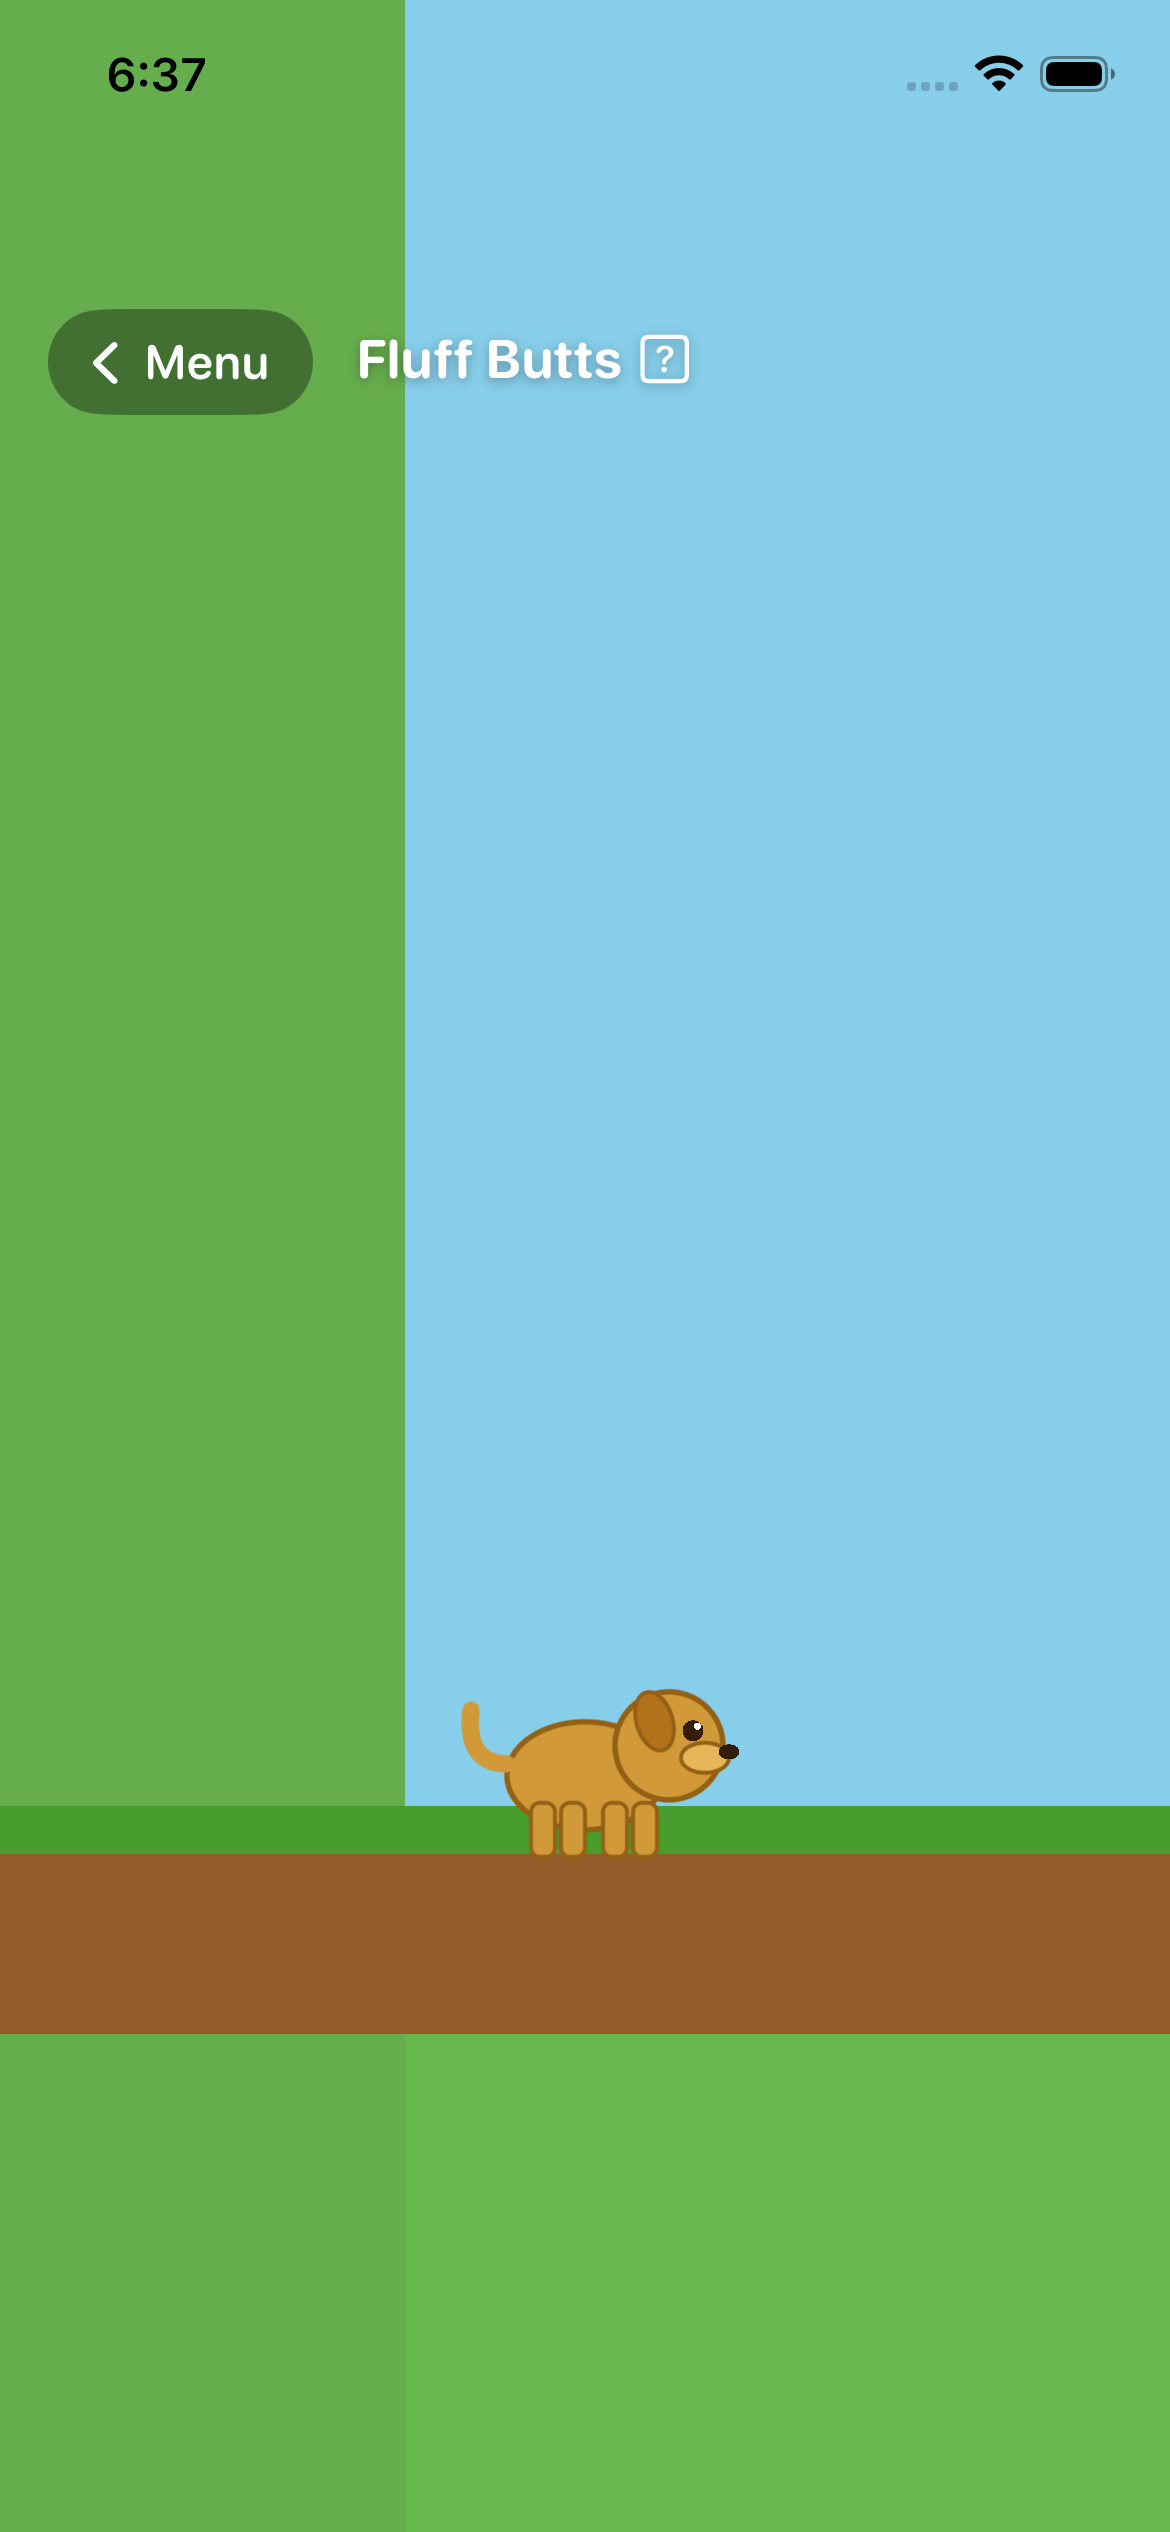
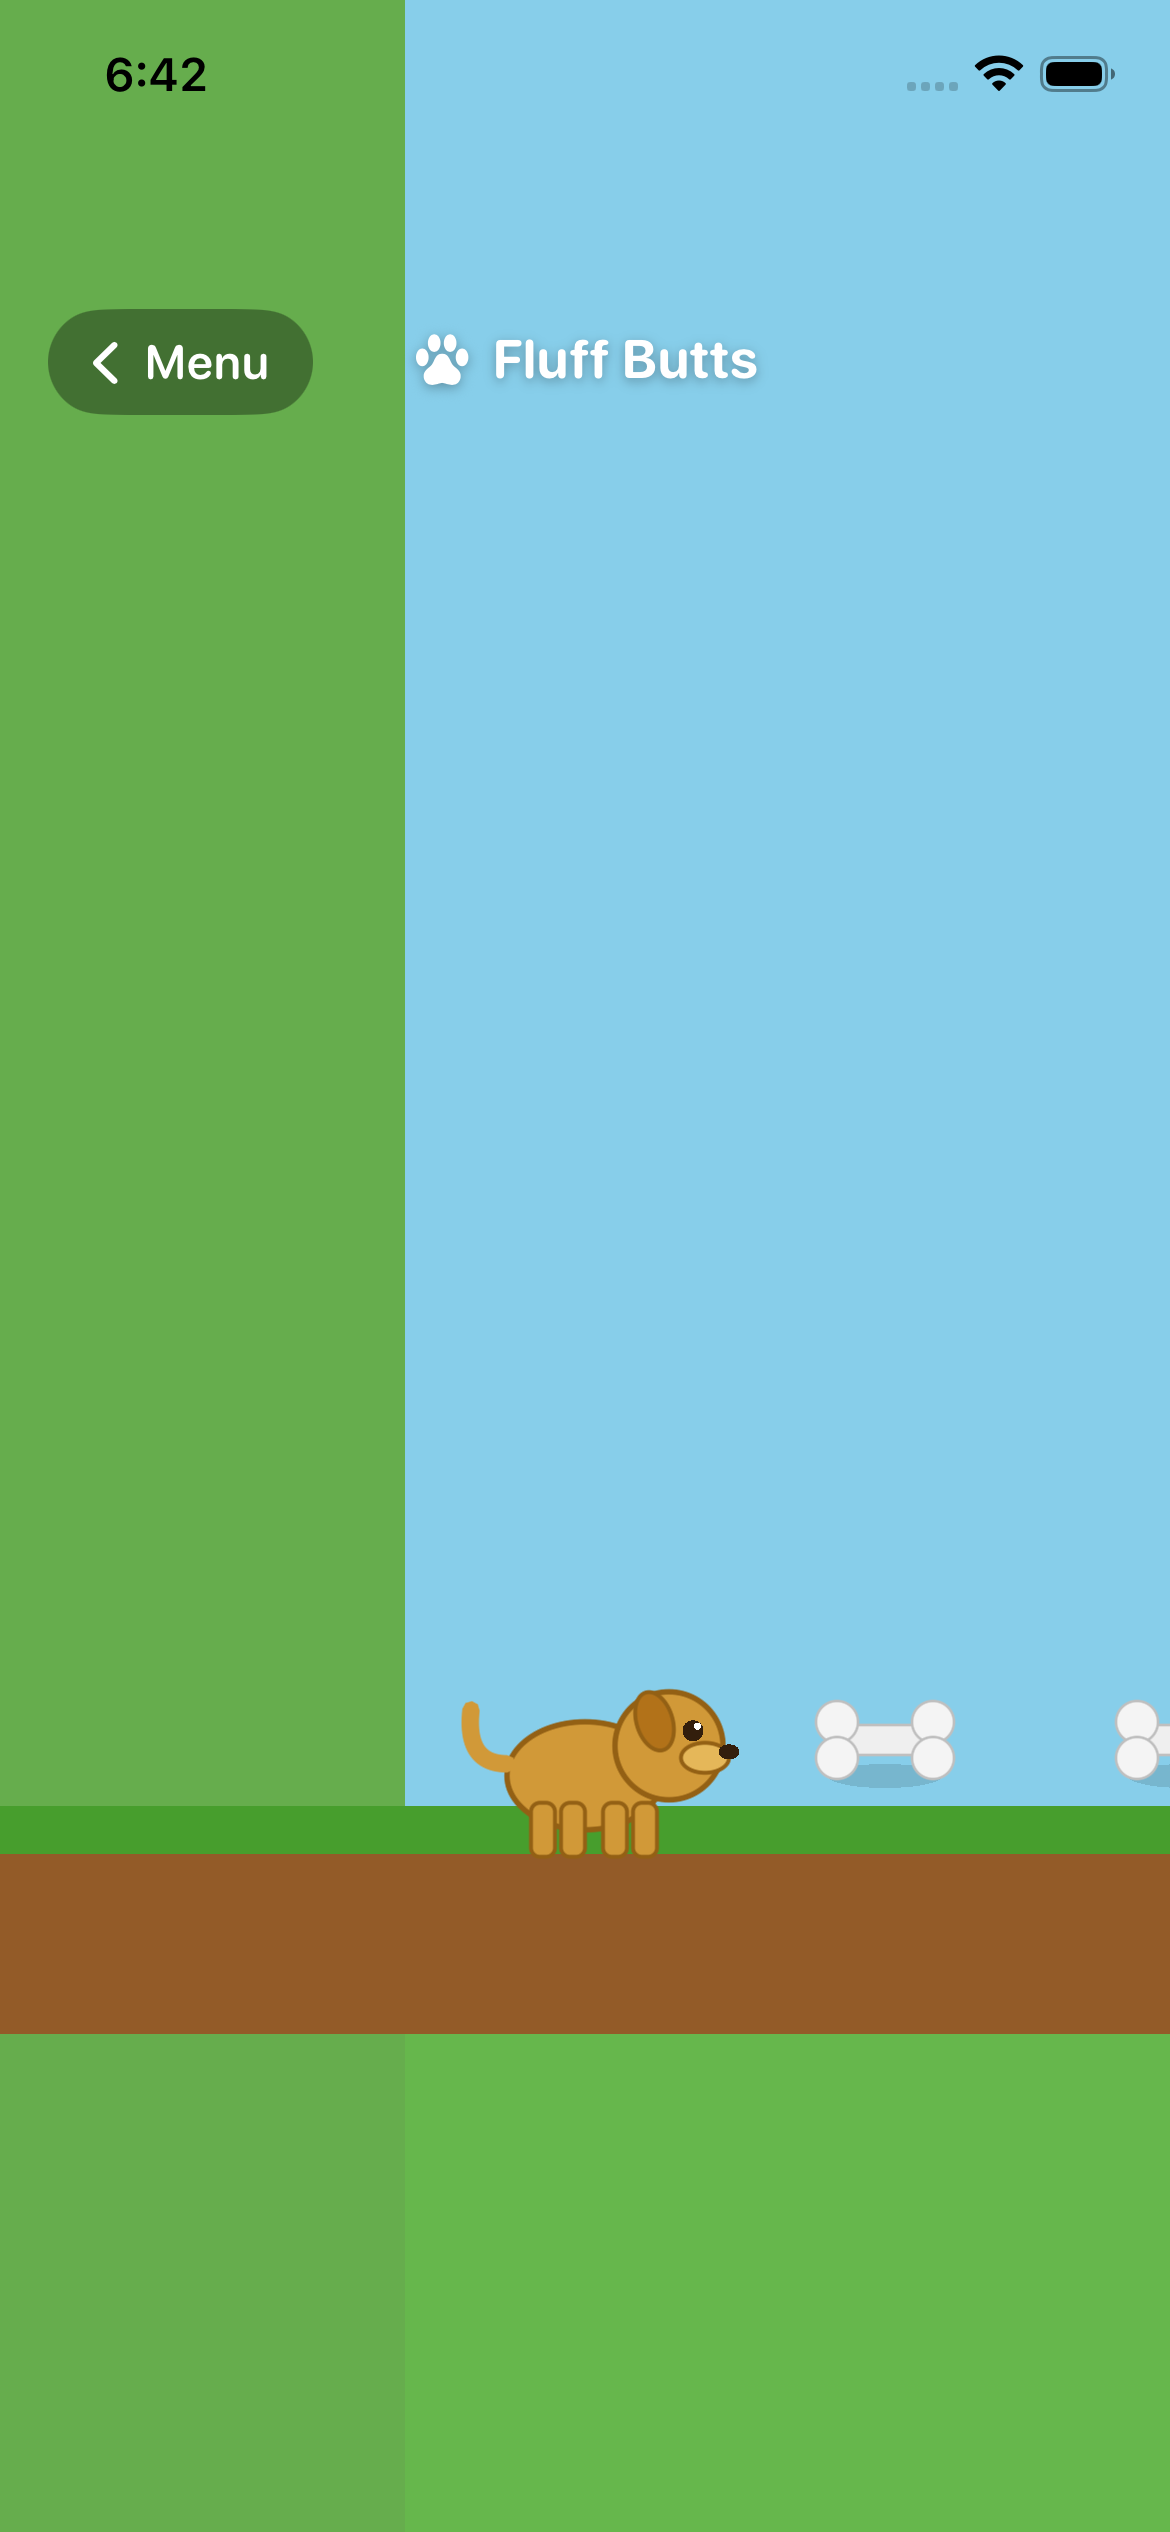
Fix fonts, add pre-placed bones, fix game title bar SF Symbol
- GameScene: replace AvenirNext fonts with system fonts (UIFont.boldSystemFont/systemFont)
- GameScene: pre-place 3 bones at scene start so they're visible immediately
- GameView: replace 🐾 emoji in title with SF Symbol pawprint.fill
- Updated simulator game screenshot showing dog + bones

diff --git a/FluffButs/Game/GameScene.swift b/FluffButs/Game/GameScene.swift
@@ -36,6 +36,7 @@ final class GameScene: SKScene, @preconcurrency SKPhysicsContactDelegate {
         setupFinishLine()
         setupDog()
         setupCamera()
+        setupInitialBones()
         setupHint()
     }
 
@@ -138,7 +139,7 @@ final class GameScene: SKScene, @preconcurrency SKPhysicsContactDelegate {
 
         let flagLabel = SKLabelNode(text: "FINISH!")
         flagLabel.fontSize = 20
-        flagLabel.fontName = "AvenirNext-Bold"
+        flagLabel.fontName = UIFont.boldSystemFont(ofSize: 1).fontName
         flagLabel.fontColor = .white
         flagLabel.verticalAlignmentMode = .center
         flagLabel.horizontalAlignmentMode = .center
@@ -174,6 +175,18 @@ final class GameScene: SKScene, @preconcurrency SKPhysicsContactDelegate {
         addChild(dogNode)
     }
 
+    // MARK: - Pre-placed Bones
+
+    private func setupInitialBones() {
+        let bonePositions: [CGFloat] = [160, 260, 380]
+        for x in bonePositions {
+            let treat = TreatNode()
+            treat.position = CGPoint(x: x, y: groundY + 22)
+            addChild(treat)
+            treats.append(treat)
+        }
+    }
+
     // MARK: - Camera
 
     private func setupCamera() {
@@ -195,7 +208,7 @@ final class GameScene: SKScene, @preconcurrency SKPhysicsContactDelegate {
 
         let hint = SKLabelNode(text: "Tap anywhere to drop a bone!")
         hint.fontSize = 15
-        hint.fontName = "AvenirNext-Medium"
+        hint.fontName = UIFont.systemFont(ofSize: 1, weight: .medium).fontName
         hint.fontColor = .white
         hint.verticalAlignmentMode = .center
         hint.horizontalAlignmentMode = .center
@@ -273,7 +286,7 @@ final class GameScene: SKScene, @preconcurrency SKPhysicsContactDelegate {
 
         let celebrate = SKLabelNode(text: "Course Complete!")
         celebrate.fontSize = 28
-        celebrate.fontName = "AvenirNext-Bold"
+        celebrate.fontName = UIFont.boldSystemFont(ofSize: 1).fontName
         celebrate.fontColor = .white
         celebrate.verticalAlignmentMode = .center
         celebrate.horizontalAlignmentMode = .center

diff --git a/FluffButs/Game/GameView.swift b/FluffButs/Game/GameView.swift
@@ -40,12 +40,16 @@ struct GameView: View {
             }
 
             // Title bar
-            Text("Fluff Butts 🐾")
-                .font(.system(size: 18, weight: .bold, design: .rounded))
-                .foregroundColor(.white)
-                .shadow(color: .black.opacity(0.3), radius: 2, x: 0, y: 1)
-                .frame(maxWidth: .infinity)
-                .padding(.top, 62)
+            HStack(spacing: 6) {
+                Image(systemName: "pawprint.fill")
+                    .font(.system(size: 16, weight: .bold))
+                Text("Fluff Butts")
+                    .font(.system(size: 18, weight: .bold, design: .rounded))
+            }
+            .foregroundColor(.white)
+            .shadow(color: .black.opacity(0.3), radius: 2, x: 0, y: 1)
+            .frame(maxWidth: .infinity)
+            .padding(.top, 62)
         }
     }
 
